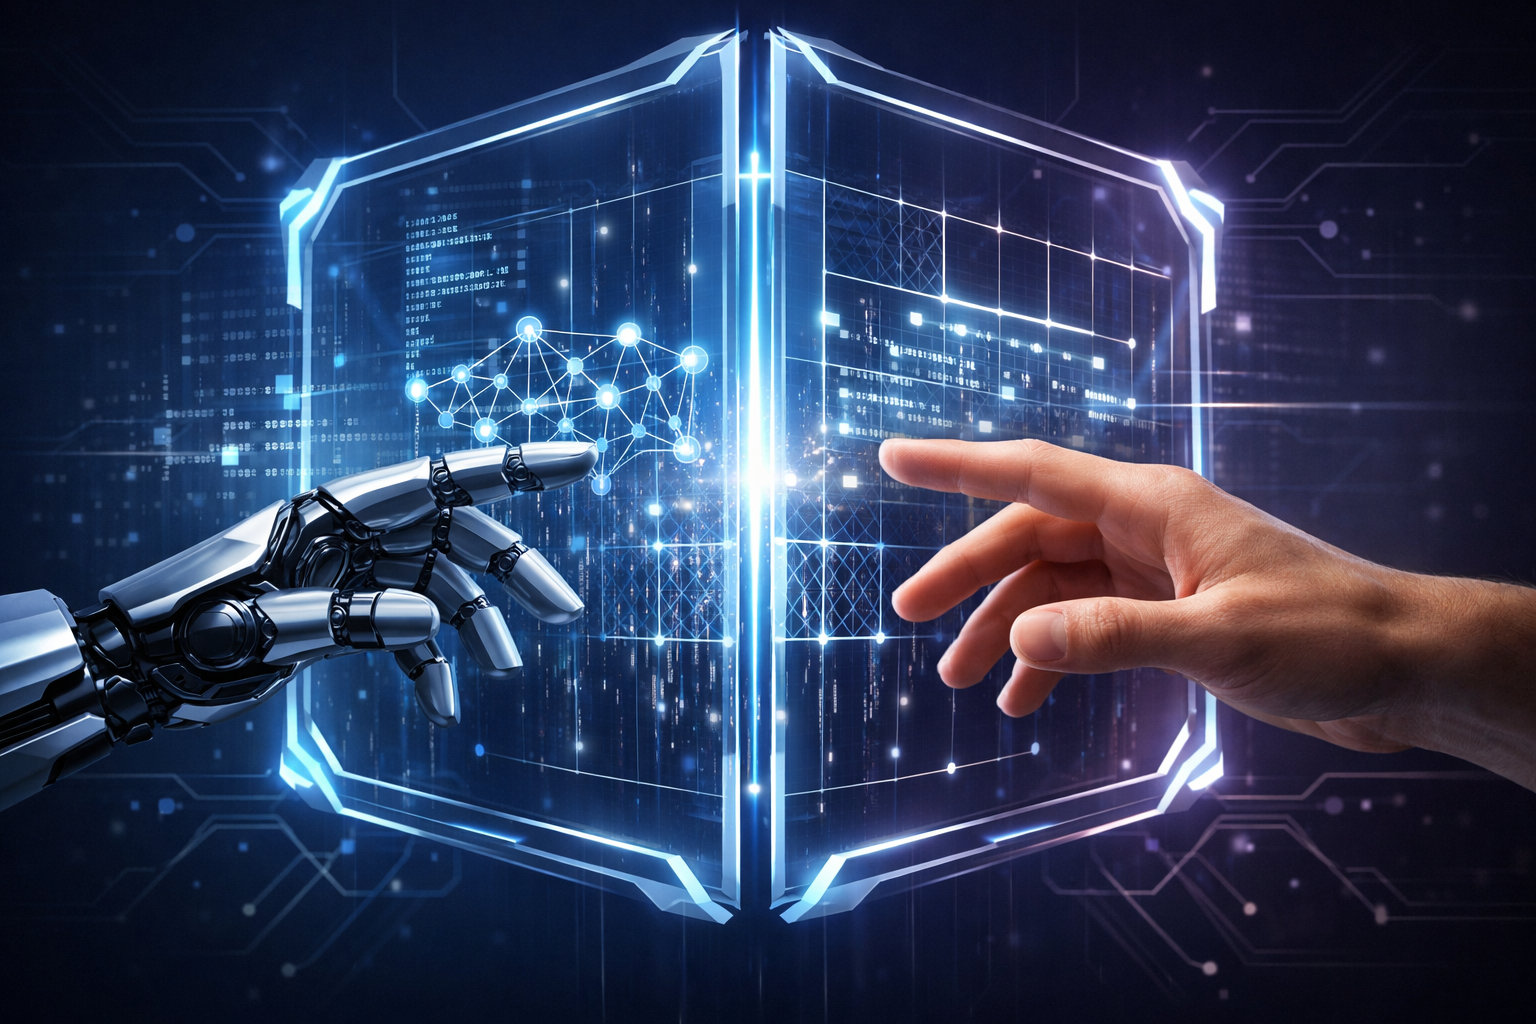
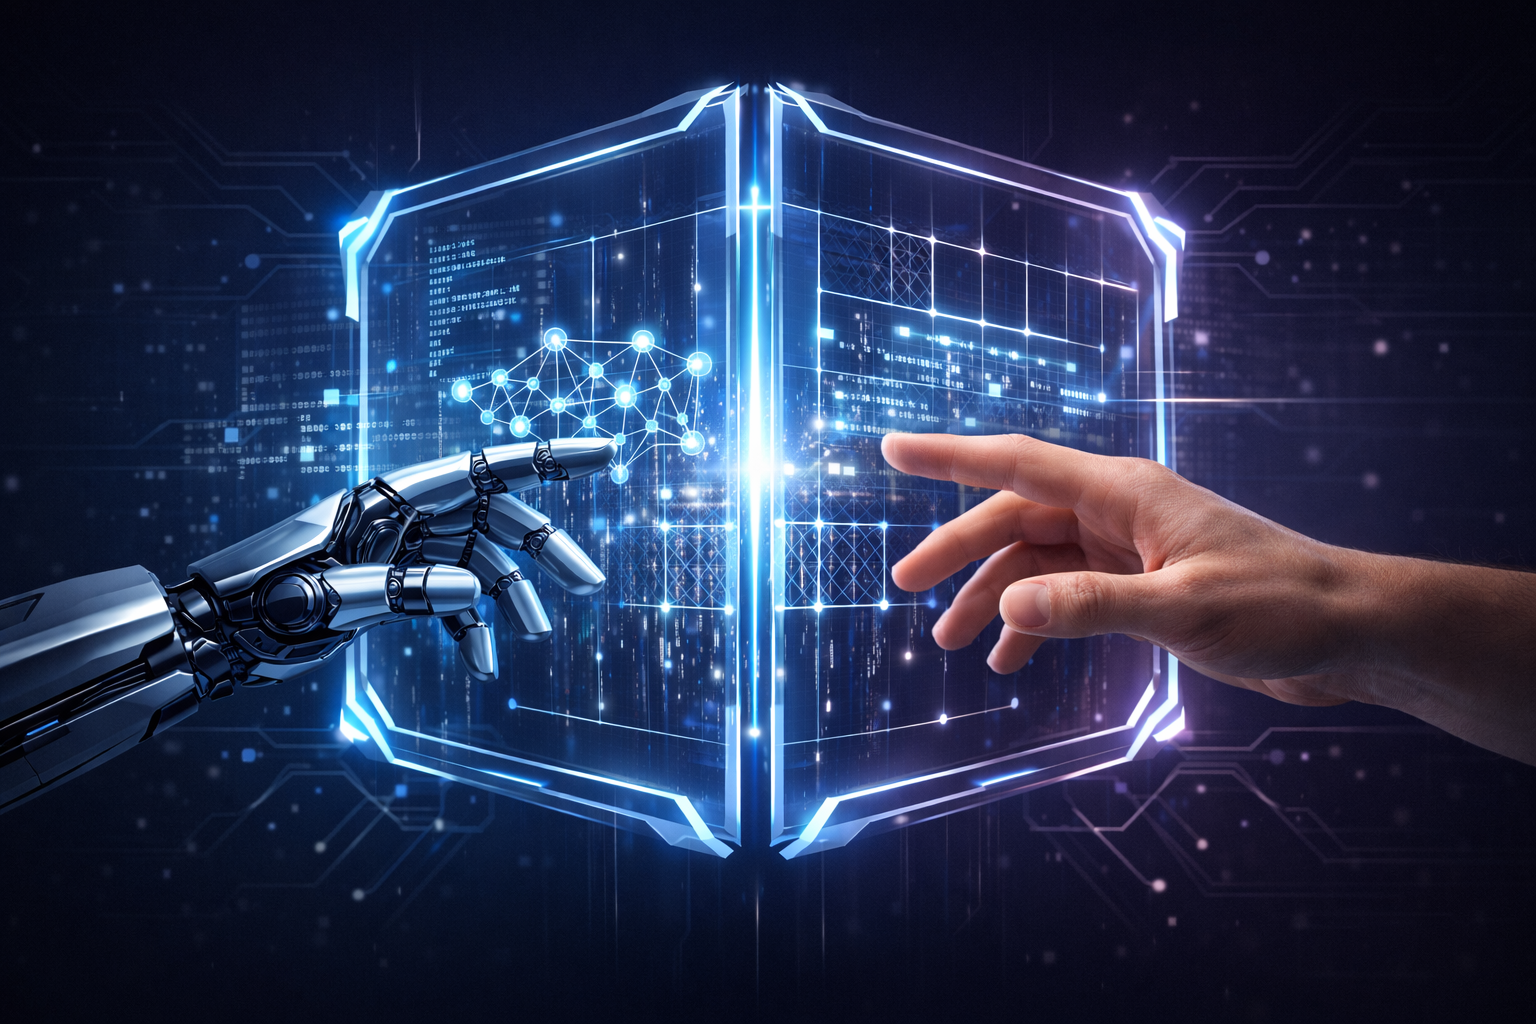
uploaded background

diff --git a/style.css b/style.css
@@ -416,7 +416,7 @@ hr {
             rgba(124, 58, 237, 0.55) 0%,
             rgba(167, 139, 250, 0.25) 60%,
             rgba(255, 255, 255, 0.08) 100%),
-        url('assets/images/hero-bg.png') center/cover no-repeat;
+        url('assets/images/bg_landing_page.png') center/cover no-repeat;
     overflow: hidden;
 }
 
